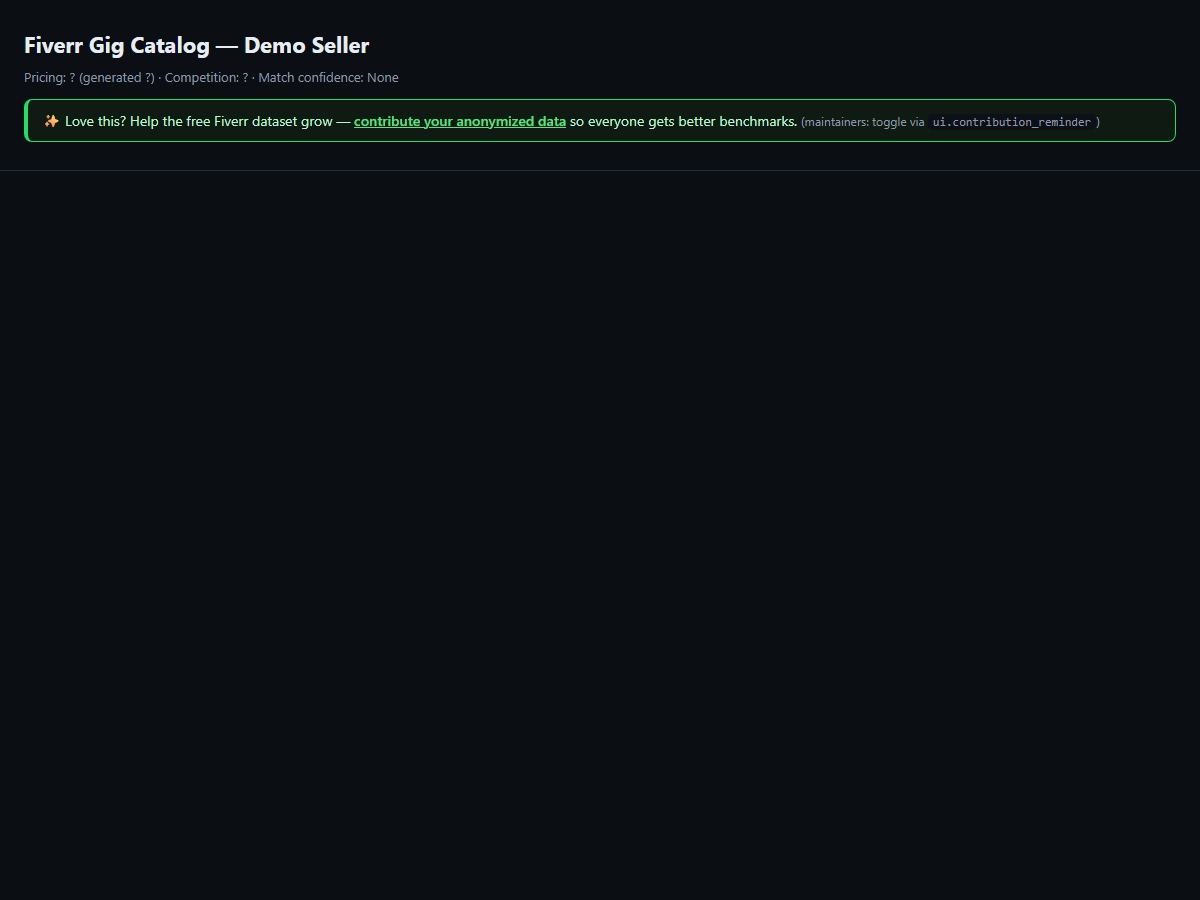
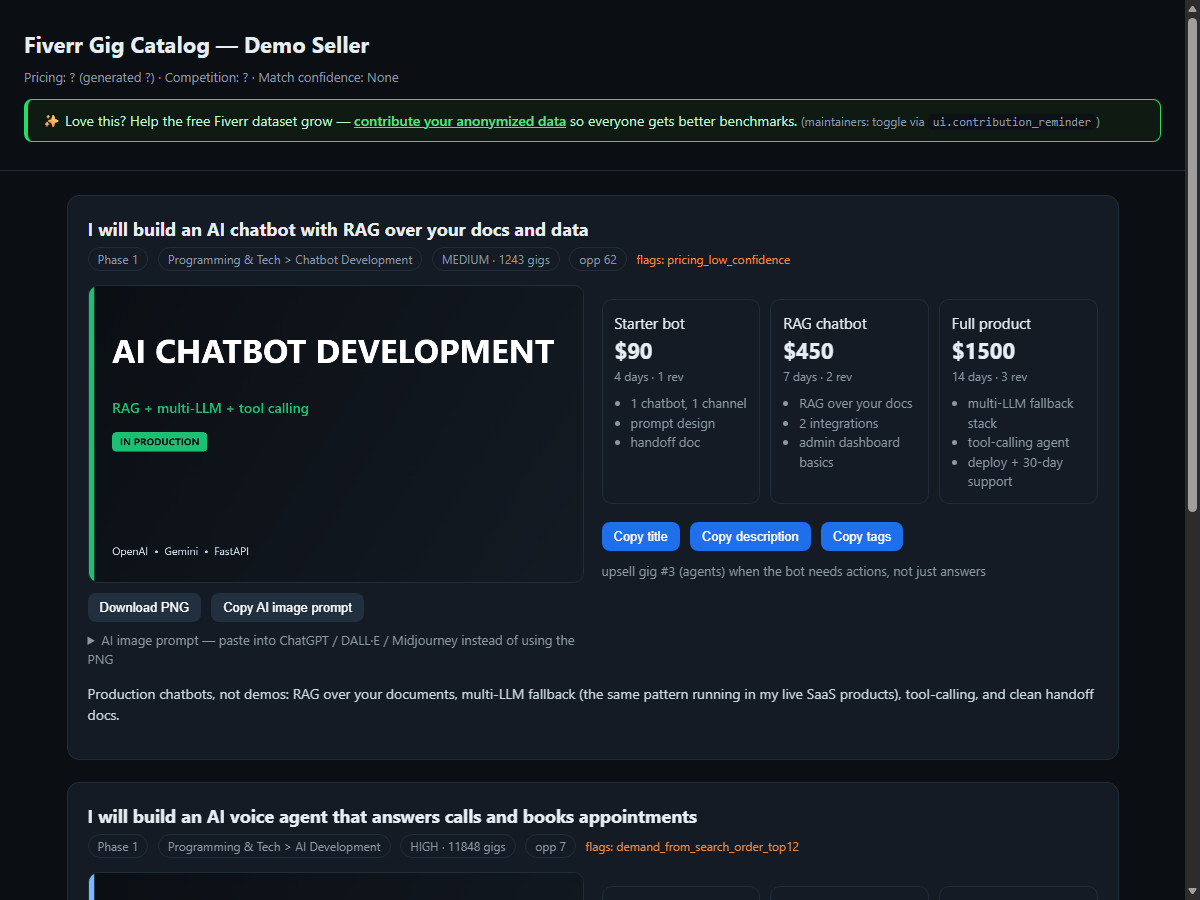
Fix catalog render: escaped newline in the JS template killed the whole script
The aiPrompt helper's lines.join('\n') sat inside build_catalog.py's Python
template string, so Python interpreted the escape and emitted a literal
newline inside a JS string literal - a syntax error that silently blanked
every gig card (header still rendered). Now emits \n; added a regression
test that extracts the embedded <script> and validates it (node --check when
available) plus asserts the escape survives intact. Regenerated the README
demo screenshot, which had captured the broken empty render.

diff --git a/tests/test_build_catalog.py b/tests/test_build_catalog.py
@@ -45,6 +45,25 @@ class TestBuildCatalog(unittest.TestCase):
         self.assertIn("canvas", self.html)
         self.assertIn("Download PNG", self.html)
 
+    def test_embedded_script_is_valid_javascript(self):
+        """Regression: a Python-interpreted escape (e.g. '\\n' in the template)
+        once emitted a literal newline inside a JS string, silently killing the
+        whole render script (header showed, zero gig cards). Validate the
+        embedded <script> parses — with node when available, else by checking
+        no string literal is broken across a line."""
+        import re
+        m = re.search(r"<script>(.*)</script>", self.html, re.S)
+        self.assertIsNotNone(m)
+        js = m.group(1)
+        self.assertIn(r"lines.join('\n')", js)  # the once-broken escape, intact
+        import shutil
+        if shutil.which("node"):
+            js_path = os.path.join(self.dir, "catalog.js")
+            with open(js_path, "w", encoding="utf-8") as fh:
+                fh.write(js)
+            r = subprocess.run(["node", "--check", js_path], capture_output=True, text=True)
+            self.assertEqual(r.returncode, 0, r.stderr)
+
     def test_ai_prompt_ui_present(self):
         self.assertIn("Copy AI image prompt", self.html)
         self.assertIn("aiPrompt(", self.html)

diff --git a/skills/fiverr-gig-optimizer/scripts/build_catalog.py b/skills/fiverr-gig-optimizer/scripts/build_catalog.py
@@ -143,7 +143,7 @@ function aiPrompt(gig){
     'Style: flat, modern, minimal tech aesthetic; strong contrast; crisp typography; plenty of negative space.',
     'Do NOT include: photos of people, stock-photo textures, watermarks, logos, or any text other than the strings quoted above. All quoted text must be spelled exactly as written.'
   );
-  return lines.join('\n');
+  return lines.join('\\n');
 }
 
 const app = document.getElementById('app');